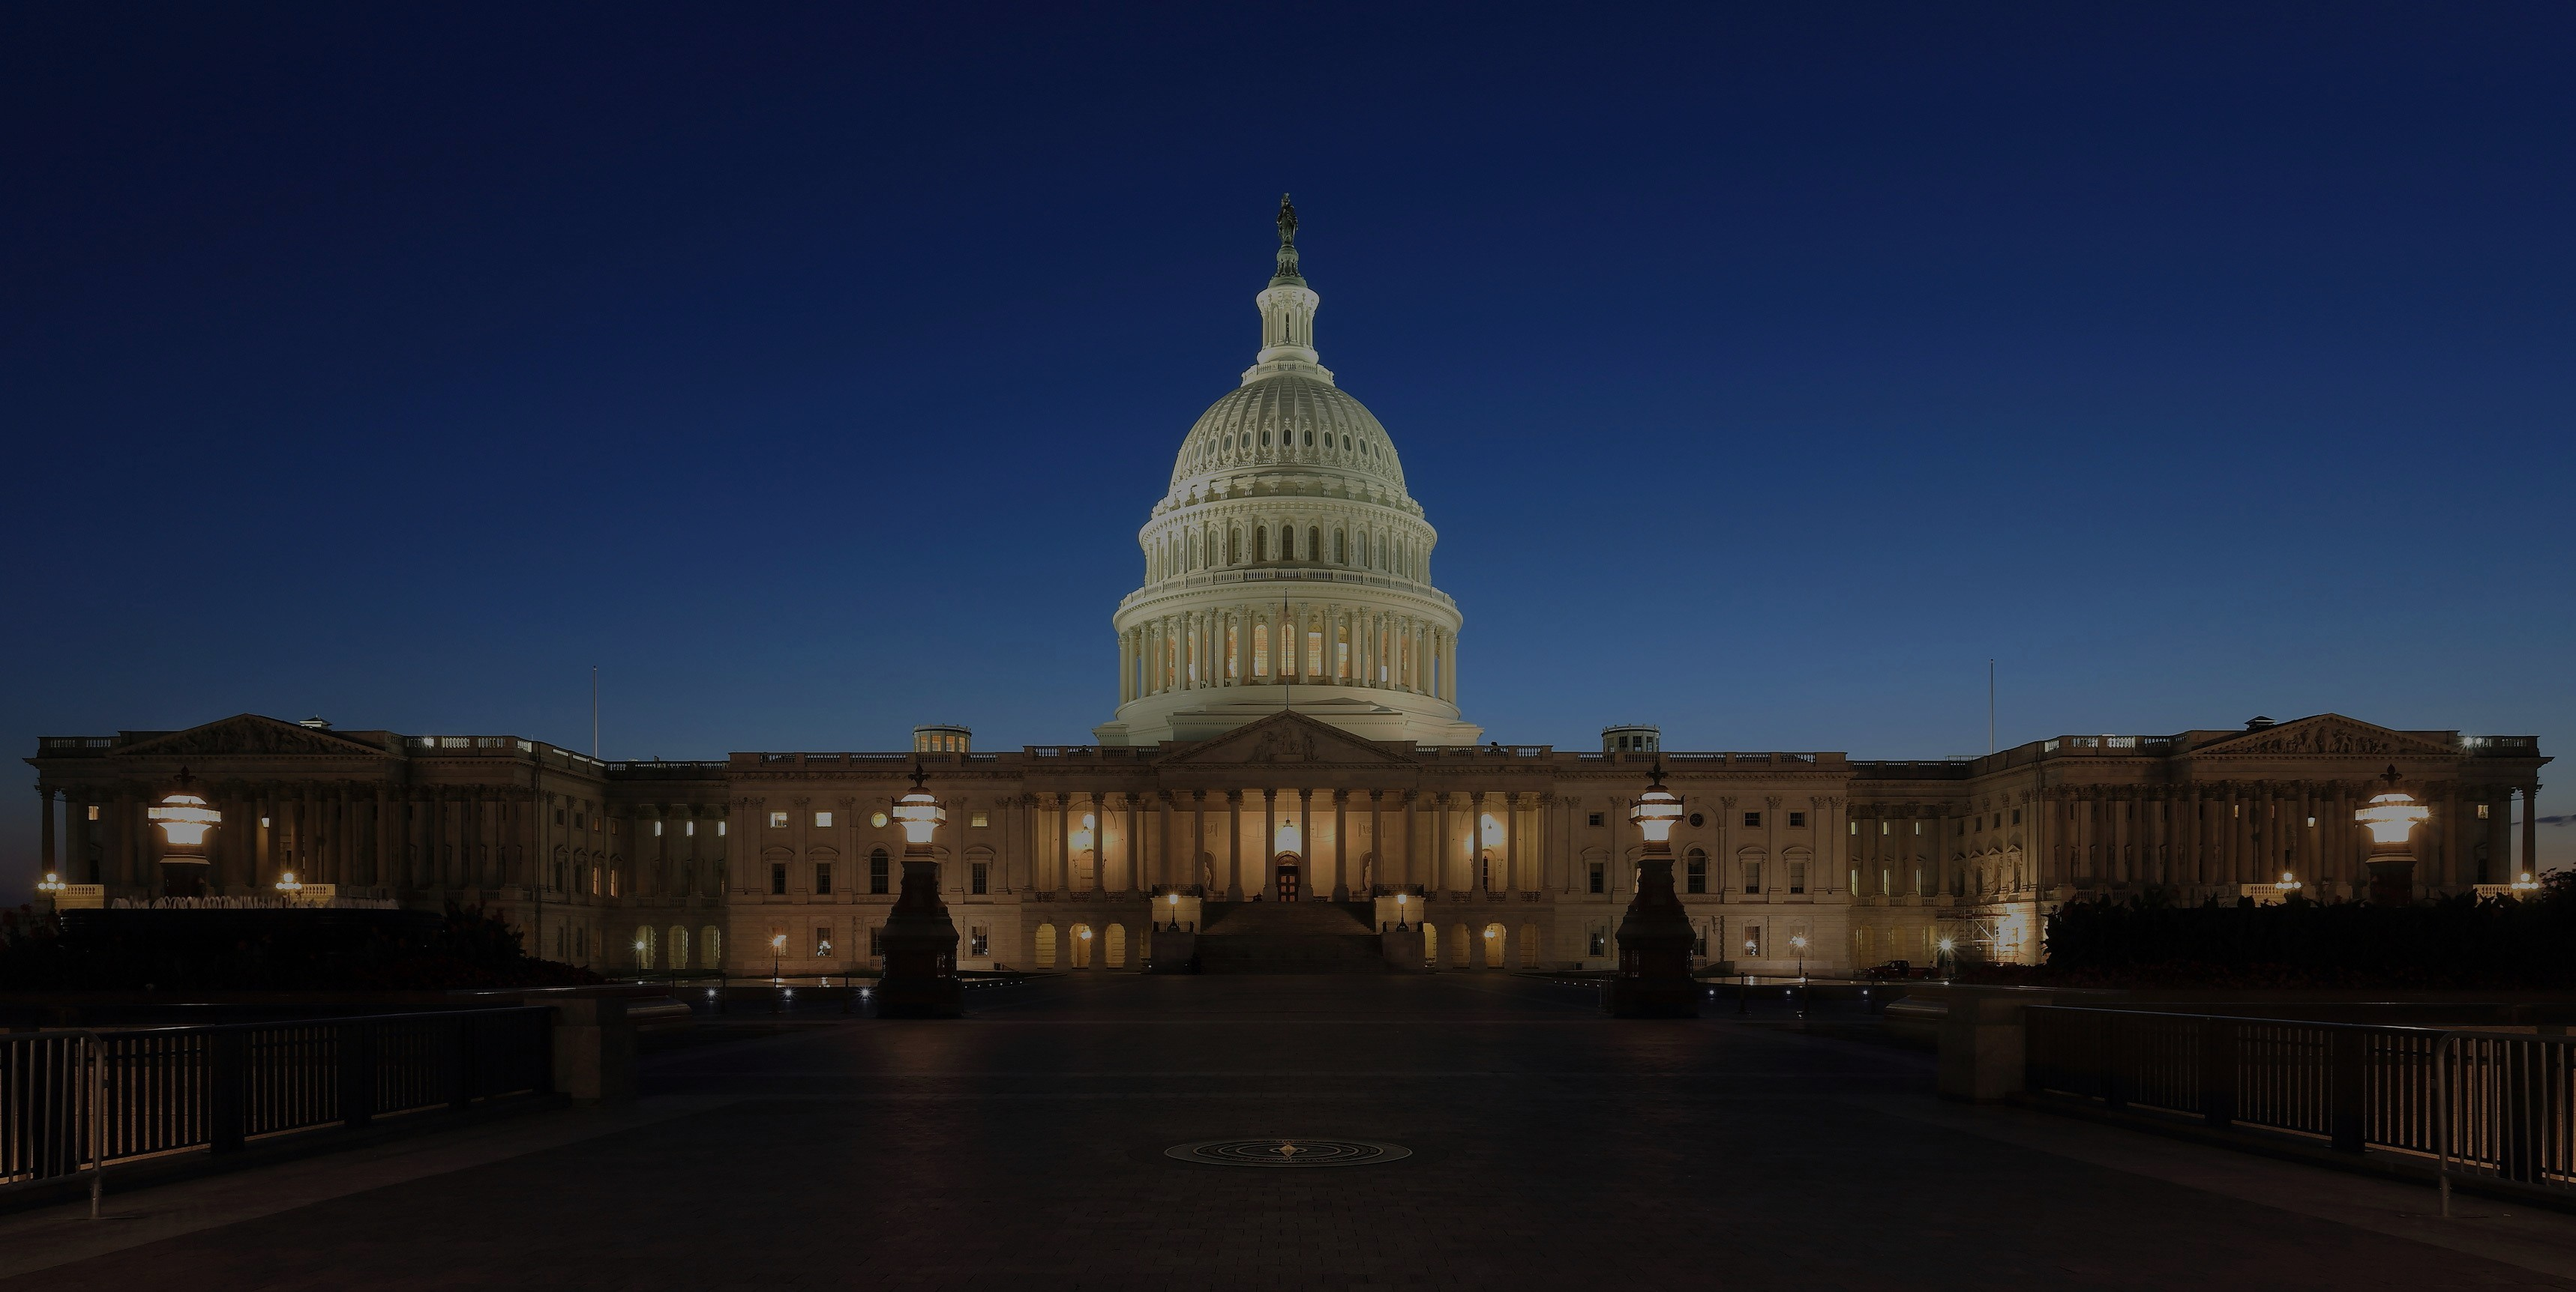
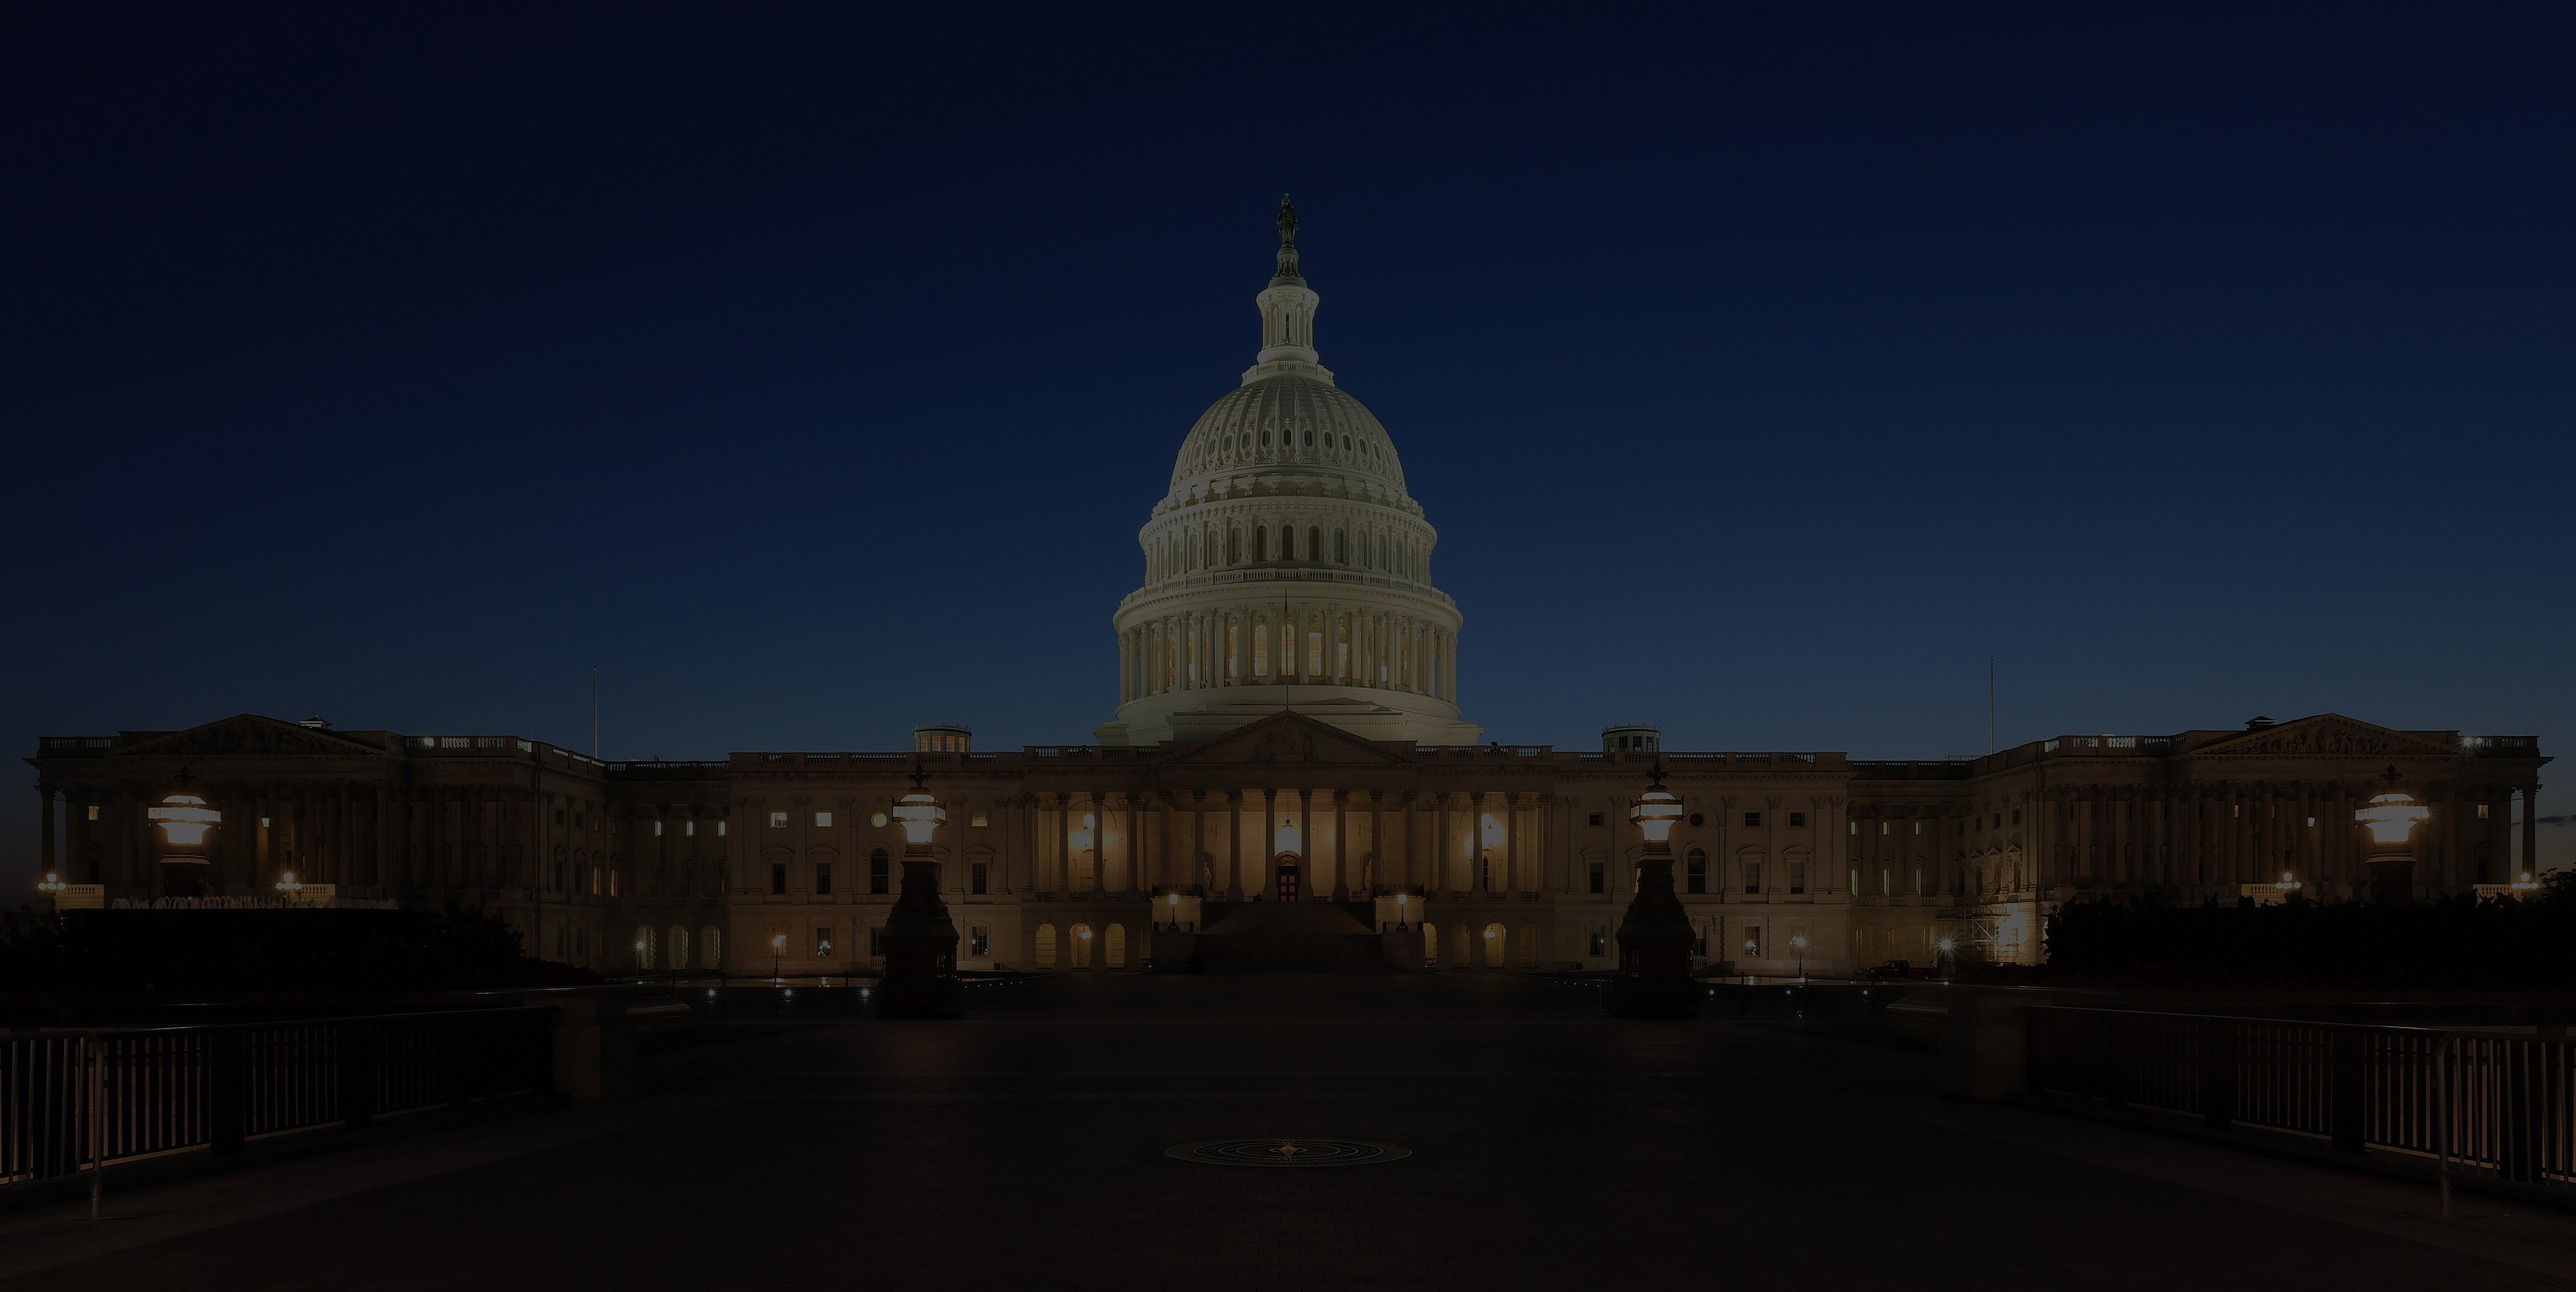
style update + new content in bill html

diff --git a/USQuery/BillQuery/templates/BillQuery/bill.html b/USQuery/BillQuery/templates/BillQuery/bill.html
@@ -11,6 +11,7 @@
     <div class="col-md-9">
         <div class="p-4 bg-body-tertiary rounded shadow-sm mb-4 glass-0">
             <h2 id="bill_title">{{bill}} : {{bill_state_type}}</h2>
+            <hr />
             <div id="AI_warning" role="alert" class="alert alert-warning">Warning: The content below was generated with AI.</div>
             <h5 id="bill_summary" class="t-responsive-lg overflow-scroll">{{summary | safe}}</h5>
         </div>
@@ -66,10 +67,26 @@
                 {{policy_area}}
                 <details>
                     <summary>
-                        See Subjects
+                        Related Subjects
                     </summary>
                     <ul id="bill_subjects" class="list-group p-0 list-group-flush t-responsive-sm overflow-scroll">
                         {{subjects | safe}}
+                    </ul>
+                </details>
+                <details>
+                    <summary>
+                        Related Geographic Entities
+                    </summary>
+                    <ul id="bill_subjects" class="list-group p-0 list-group-flush t-responsive-sm overflow-scroll">
+                        {{subjects_1 | safe}}
+                    </ul>
+                </details>
+                <details>
+                    <summary>
+                        Related Organizations
+                    </summary>
+                    <ul id="bill_subjects" class="list-group p-0 list-group-flush t-responsive-sm overflow-scroll">
+                        {{subjects_2 | safe}}
                     </ul>
                 </details>
             </div>

diff --git a/USQuery/app/static/app/content/site.css b/USQuery/app/static/app/content/site.css
@@ -148,6 +148,9 @@ ts.grn {
     -webkit-backdrop-filter: blur(9.4px) !important;
 }
 
+summary {
+    font-weight: bold;
+}
 
 /* Set padding to keep content from hitting the edges */
 .body-content {

diff --git a/USQuery/app/utils.py b/USQuery/app/utils.py
@@ -821,9 +821,17 @@ async def billHtml(bill, congress_id, bill_type, num):
                   
     if (subjects_exist):
         sub_list = ''
-        async for s in bill.subjects.all():
+        async for s in bill.subjects.filter(subtype=0).all():
             sub_list +=  '<li class="list-group-item bg-trans darkmode">' + s.name + '</li>'
         context['subjects'] = sub_list
+        sub_list_1 = ''
+        async for s in bill.subjects.filter(subtype=1).all():
+            sub_list_1 +=  '<li class="list-group-item bg-trans darkmode">' + s.name + '</li>'
+        context['subjects_1'] = sub_list_1
+        sub_list_2 = ''
+        async for s in bill.subjects.filter(subtype=2).all():
+            sub_list_2 +=  '<li class="list-group-item bg-trans darkmode">' + s.name + '</li>'
+        context['subjects_2'] = sub_list_2
         context['policy_area'] = bill.policy_area
       
     # currently jut gets first summary in list...
